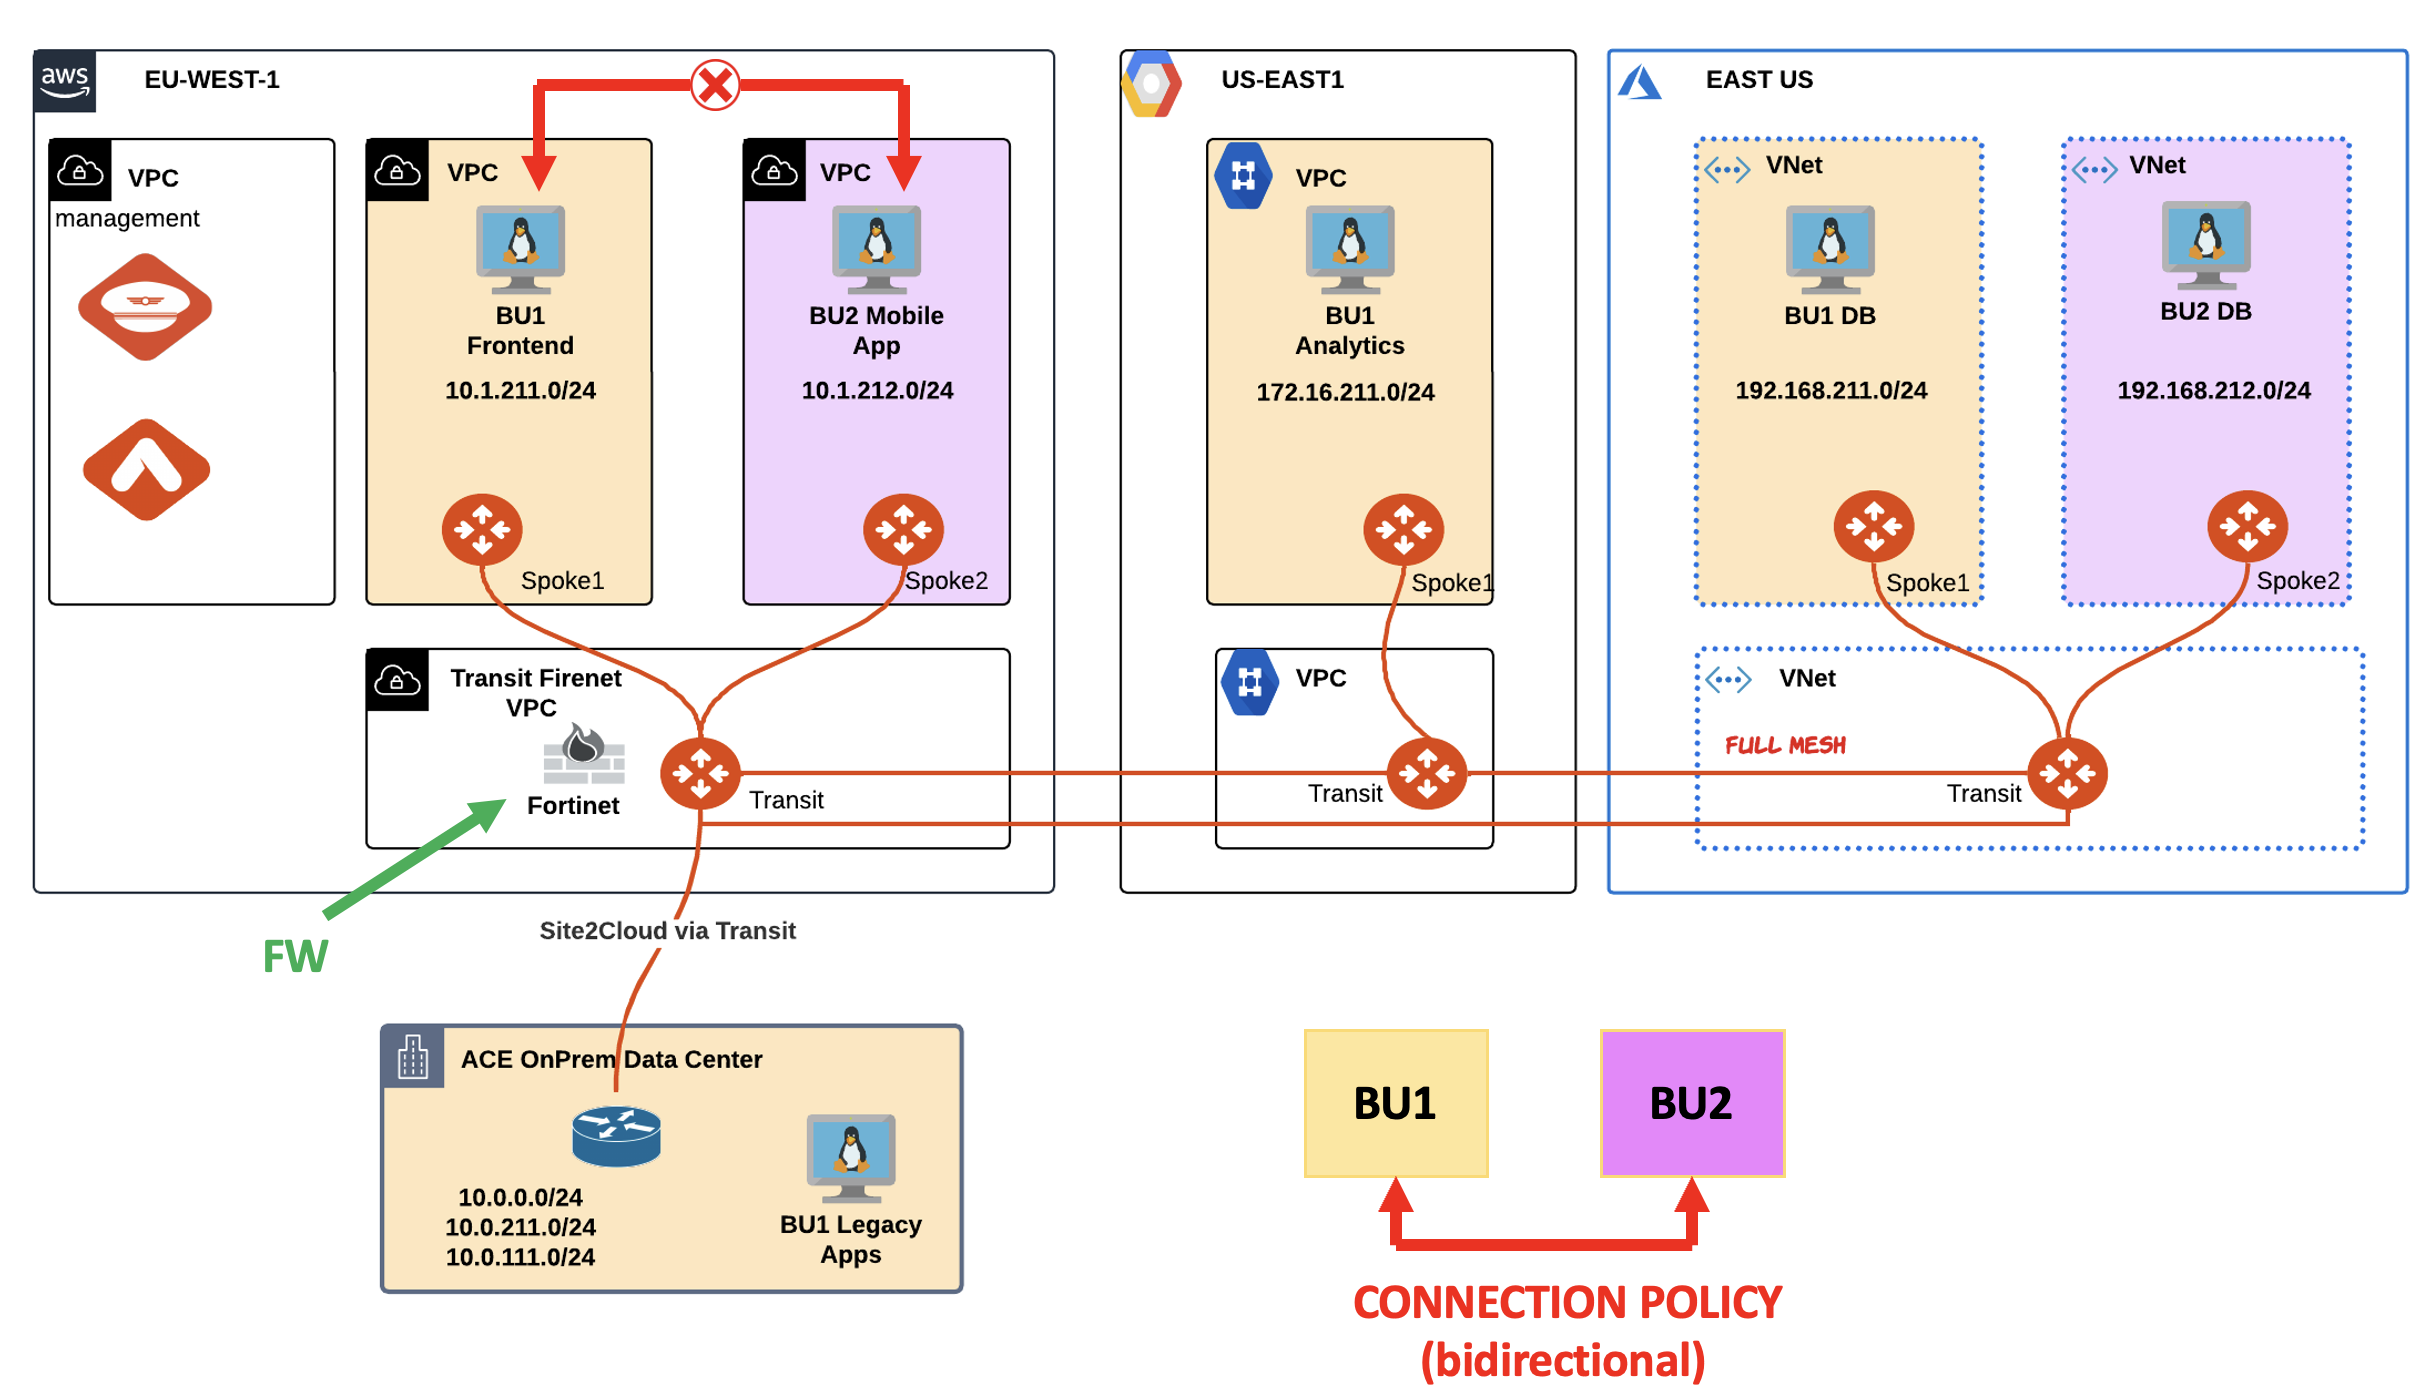
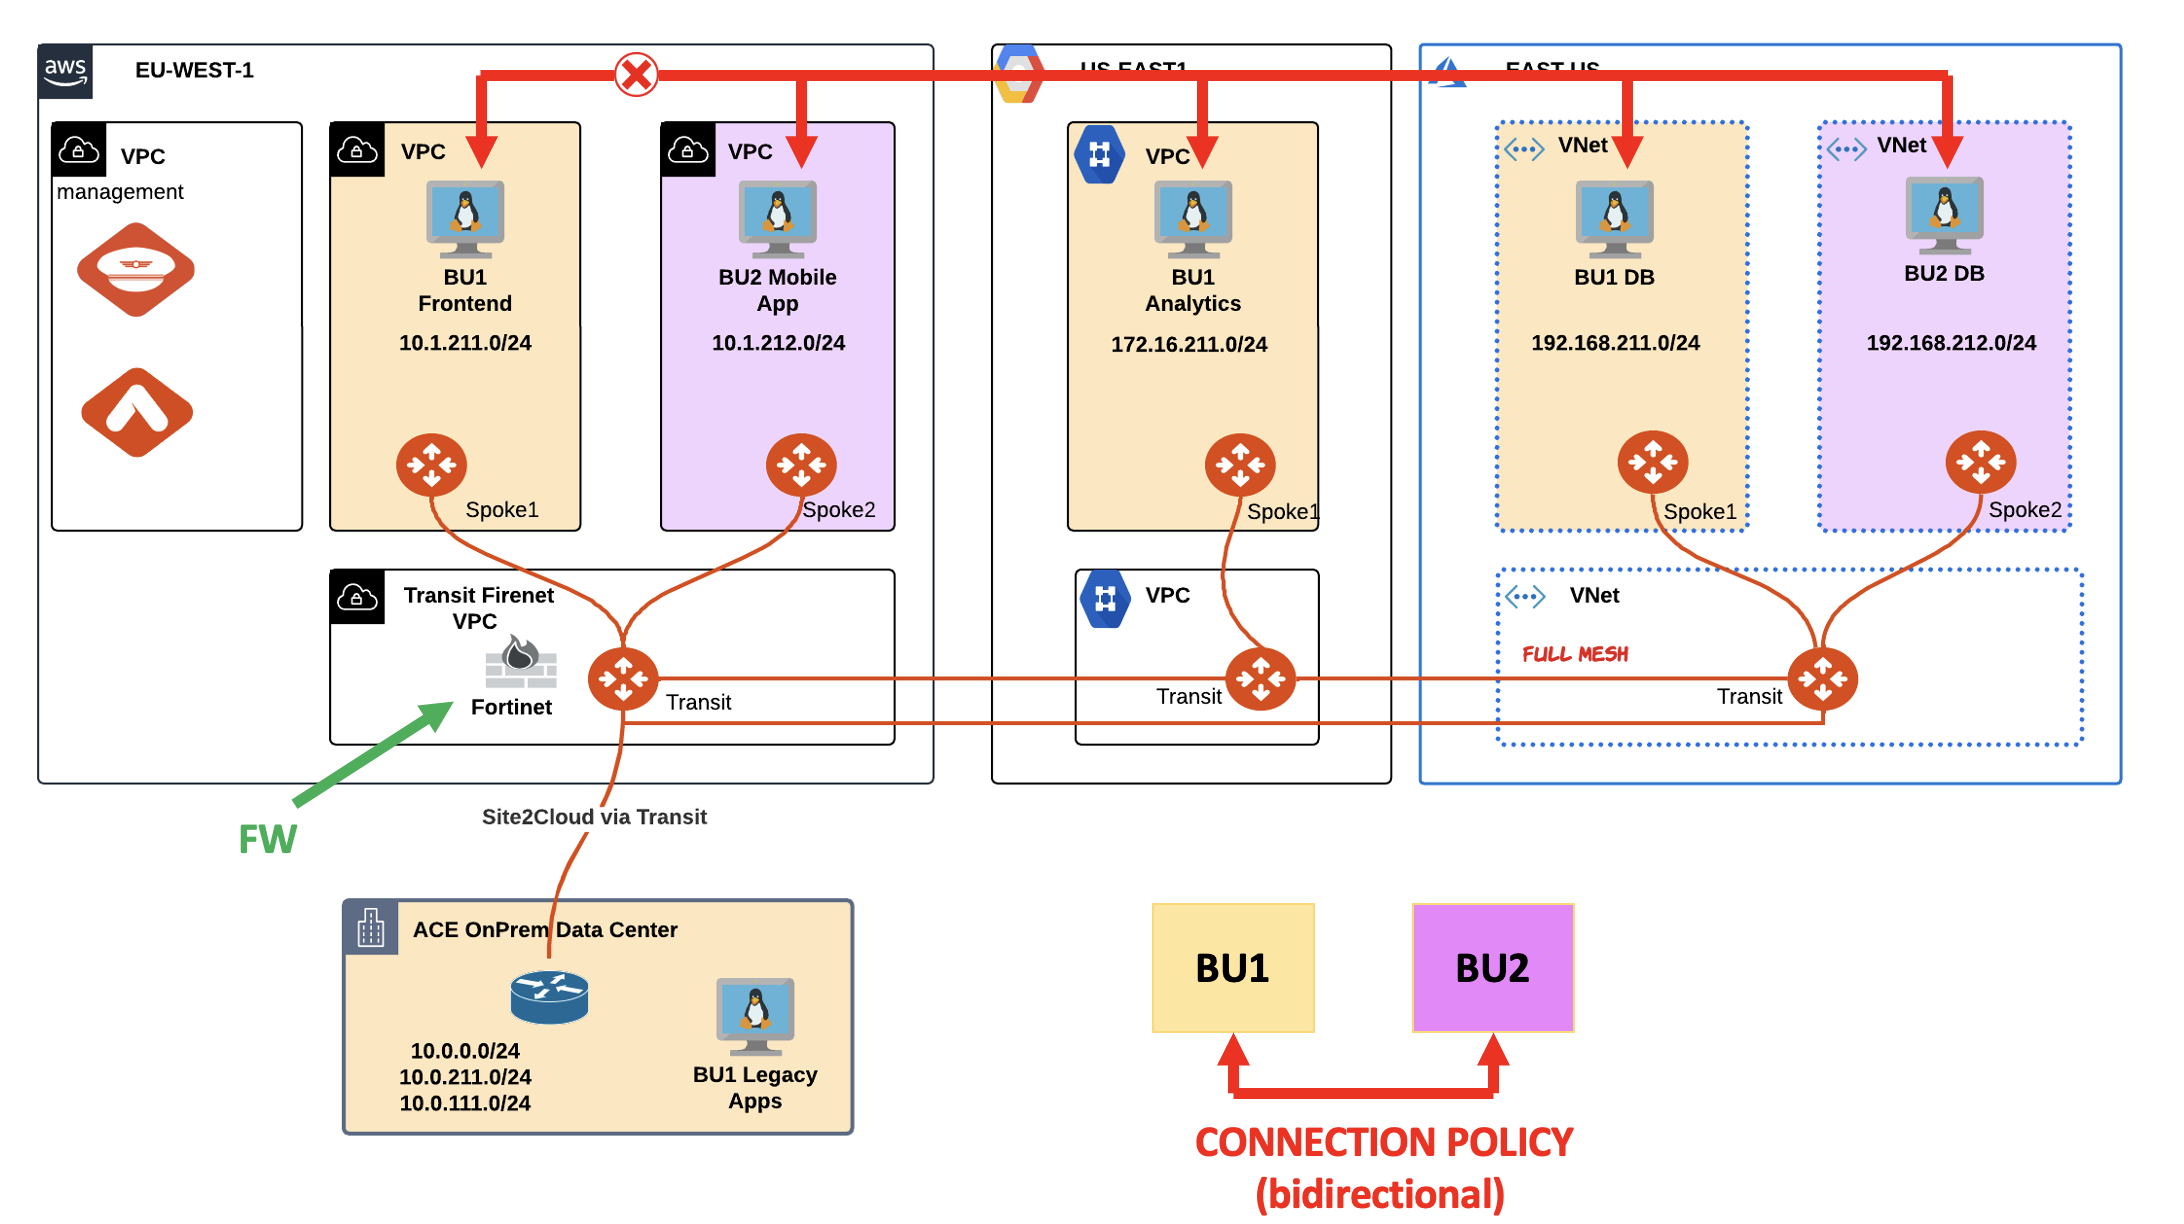
update for ops

Changed region(s): [[0.0, 0.031, 0.9963, 0.9314], [0.5293, 0.7141, 0.7473, 0.9935], [0.0, 0.031, 0.1245, 0.4657]]

diff --git a/ace_ops/docs/lab3.md b/ace_ops/docs/lab3.md
@@ -2,9 +2,9 @@
 
 ## 1. SCENARIO
 
-BU1 and BU2 were able to communicate with each other as of Friday EOB (i.e end of LAB2).
+BU1 and BU2 were able to communicate with each other as of Friday EOD (end of LAB2). 
 
-However, the network team received a complaint from BU1 Frontend Team that the connectivity with BU2 Mobile App was no longer working.
+However, the Network Team has received a report from BU1 Frontend Team that it cannot reach any instances inside the BU2 domain. Additionally, BU1 Analytics and BU1 DB are affected.
 
 ```{warning}
 The traffic between the two VPCs in AWS is inspected by a **Firewall** deployed through the Aviatrix **FireNet** feature.
